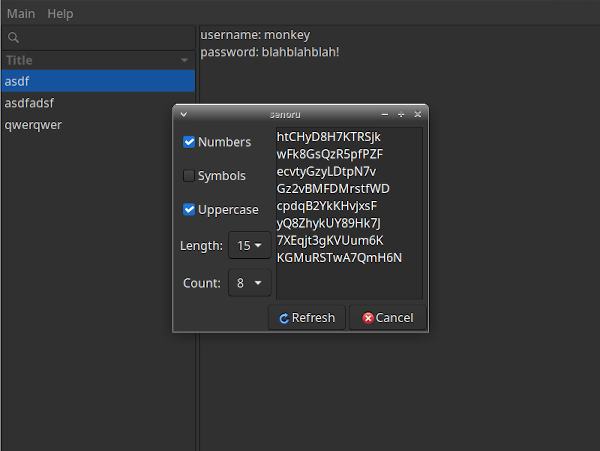
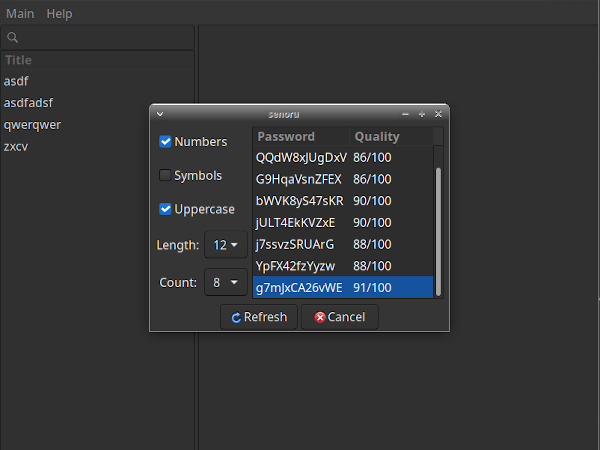
adding score to generate-password

diff --git a/src/gui.rs b/src/gui.rs
@@ -4,6 +4,8 @@ use gtk::prelude::*;
 use gtk::TreeViewExt;
 use magic_crypt::MagicCrypt256;
 use magic_crypt::MagicCryptTrait;
+use passwords::analyzer;
+use passwords::scorer;
 use std::error::Error;
 use std::fs;
 use std::io;
@@ -12,12 +14,11 @@ use std::io::prelude::*;
 pub fn launch(application: &gtk::Application, builder: &gtk::Builder, mc: &MagicCrypt256) -> Result<(), Box<dyn Error>> {
     let main_window: gtk::Window = builder.get_object("main_window").unwrap();
     let main_window_item_title_tree_view: gtk::TreeView = builder.get_object("main_window_item_title_tree_view").unwrap();
-    let generate_password_dialog_password_tree_view: gtk::TreeView = builder.get_object("generate_password_dialog_password_tree_view").unwrap();
 
-    let store = create_store()?;
+    let item_store = create_item_store()?;
 
-    connect_items(&builder, &mc, &store, &main_window_item_title_tree_view)?;
-    connect_menu_items(&main_window, &builder, &mc, &store, &main_window_item_title_tree_view)?;
+    connect_items(&builder, &mc, &item_store, &main_window_item_title_tree_view)?;
+    connect_menu_items(&main_window, &builder, &mc, &item_store, &main_window_item_title_tree_view)?;
     connect_about_dialog(&main_window, &builder)?;
     connect_generate_password_dialog(&main_window, &builder)?;
 
@@ -30,6 +31,17 @@ pub fn launch(application: &gtk::Application, builder: &gtk::Builder, mc: &Magic
 
     main_window.show_all();
     Ok(())
+}
+
+fn create_item_store() -> Result<gtk::ListStore, Box<dyn Error>> {
+    let store = gtk::ListStore::new(&[glib::Type::String]);
+    let items = item_actions::find_all(None).expect("failed to get Items");
+    for item in items.iter() {
+        debug!("item: {:?}", item);
+        let value = glib::value::Value::from(&item.title);
+        store.set_value(&store.append(), 0u32, &value);
+    }
+    Ok(store)
 }
 
 fn connect_items(builder: &gtk::Builder, mc: &MagicCrypt256, store: &gtk::ListStore, item_title_tree_view: &gtk::TreeView) -> Result<(), Box<dyn Error>> {
@@ -92,20 +104,50 @@ fn connect_about_dialog(main_window: &gtk::Window, builder: &gtk::Builder) -> Re
 }
 
 fn connect_generate_password_dialog(main_window: &gtk::Window, builder: &gtk::Builder) -> Result<(), Box<dyn Error>> {
-    let generate_password_dialog: gtk::Dialog = builder.get_object("generate_password_dialog").unwrap();
-    let generate_password_menu_item: gtk::MenuItem = builder.get_object("generate_password_menu_item").unwrap();
-    generate_password_menu_item.connect_activate(glib::clone!(@strong generate_password_dialog => move |_| {
-        generate_password_dialog.show_all();
+    let dialog: gtk::Dialog = builder.get_object("generate_password_dialog").unwrap();
+    let tree_view: gtk::TreeView = builder.get_object("generate_password_dialog_password_tree_view").unwrap();
+    let include_numbers_checkbox: gtk::CheckButton = builder.get_object("generate_password_dialog_include_numbers_checkbox").unwrap();
+    let include_uppercase_checkbox: gtk::CheckButton = builder.get_object("generate_password_dialog_include_uppercase_checkbox").unwrap();
+    let include_symbols_checkbox: gtk::CheckButton = builder.get_object("generate_password_dialog_include_symbols_checkbox").unwrap();
+    let length_combobox: gtk::ComboBox = builder.get_object("generate_password_dialog_length_combobox").unwrap();
+    let count_combobox: gtk::ComboBox = builder.get_object("generate_password_dialog_count_combobox").unwrap();
+
+    let store = gtk::ListStore::new(&[glib::Type::String, glib::Type::String]);
+
+    tree_view.set_model(Some(&store));
+
+    let password_renderer = gtk::CellRendererTextBuilder::new().editable(true).build();
+    let password_column = gtk::TreeViewColumnBuilder::new().title("Password").sort_column_id(0i32).clickable(true).build();
+    password_column.pack_start(&password_renderer, true);
+    password_column.add_attribute(&password_renderer, "text", 0i32);
+    tree_view.append_column(&password_column);
+
+    let password_quality_renderer = gtk::CellRendererTextBuilder::new().build();
+    let password_quality_column = gtk::TreeViewColumnBuilder::new()
+        .title("Quality")
+        .sort_column_id(1i32)
+        .fixed_width(20)
+        .expand(false)
+        .resizable(false)
+        .sizing(gtk::TreeViewColumnSizing::Fixed)
+        .build();
+    password_quality_column.pack_start(&password_quality_renderer, true);
+    password_quality_column.add_attribute(&password_quality_renderer, "text", 1i32);
+    tree_view.append_column(&password_quality_column);
+
+    let menu_item: gtk::MenuItem = builder.get_object("generate_password_menu_item").unwrap();
+    menu_item.connect_activate(glib::clone!(@strong dialog => move |_| {
+        dialog.show_all();
     }));
 
-    let generate_password_dialog_refresh_button: gtk::Button = builder.get_object("generate_password_dialog_refresh_button").unwrap();
-    generate_password_dialog_refresh_button.connect_clicked(glib::clone!(@strong builder => move |_| {
-        generate_password_dialog_refresh_action(&builder);
+    let refresh_button: gtk::Button = builder.get_object("generate_password_dialog_refresh_button").unwrap();
+    refresh_button.connect_clicked(glib::clone!(@weak include_numbers_checkbox, @weak include_uppercase_checkbox, @weak include_symbols_checkbox, @weak length_combobox, @weak count_combobox, @weak store, @weak tree_view => move |_| {
+        generate_password_dialog_refresh_action(&include_numbers_checkbox, &include_uppercase_checkbox, &include_symbols_checkbox, &length_combobox, &count_combobox, &store, &tree_view);
     }));
 
-    let generate_password_dialog_cancel_button: gtk::Button = builder.get_object("generate_password_dialog_cancel_button").unwrap();
-    generate_password_dialog_cancel_button.connect_clicked(glib::clone!(@weak generate_password_dialog => move |_| {
-        generate_password_dialog.hide();
+    let cancel_button: gtk::Button = builder.get_object("generate_password_dialog_cancel_button").unwrap();
+    cancel_button.connect_clicked(glib::clone!(@weak dialog => move |_| {
+        dialog.hide();
     }));
 
     Ok(())
@@ -143,40 +185,32 @@ fn connect_menu_items(
     Ok(())
 }
 
-fn create_store() -> Result<gtk::ListStore, Box<dyn Error>> {
-    let store = gtk::ListStore::new(&[glib::Type::String]);
-    let items = item_actions::find_all(None).expect("failed to get Items");
-    for item in items.iter() {
-        debug!("item: {:?}", item);
-        let value = glib::value::Value::from(&item.title);
-        store.set_value(&store.append(), 0u32, &value);
-    }
-    Ok(store)
-}
-
-fn generate_password_dialog_refresh_action(builder: &gtk::Builder) {
-    let generate_password_dialog_include_numbers_checkbox: gtk::CheckButton = builder.get_object("generate_password_dialog_include_numbers_checkbox").unwrap();
-    let generate_password_dialog_include_uppercase_checkbox: gtk::CheckButton =
-        builder.get_object("generate_password_dialog_include_uppercase_checkbox").unwrap();
-    let generate_password_dialog_include_symbols_checkbox: gtk::CheckButton = builder.get_object("generate_password_dialog_include_symbols_checkbox").unwrap();
-    let generate_password_dialog_length_combobox: gtk::ComboBox = builder.get_object("generate_password_dialog_length_combobox").unwrap();
-    let generate_password_dialog_count_combobox: gtk::ComboBox = builder.get_object("generate_password_dialog_count_combobox").unwrap();
-
+fn generate_password_dialog_refresh_action(
+    include_numbers_checkbox: &gtk::CheckButton,
+    include_uppercase_checkbox: &gtk::CheckButton,
+    include_symbols_checkbox: &gtk::CheckButton,
+    length_combobox: &gtk::ComboBox,
+    count_combobox: &gtk::ComboBox,
+    store: &gtk::ListStore,
+    tree_view: &gtk::TreeView,
+) {
     let generator = passwords::PasswordGenerator::new()
         .spaces(false)
         .exclude_similar_characters(true)
         .strict(true)
         .lowercase_letters(true)
-        .numbers(generate_password_dialog_include_numbers_checkbox.get_active())
-        .symbols(generate_password_dialog_include_symbols_checkbox.get_active())
-        .uppercase_letters(generate_password_dialog_include_uppercase_checkbox.get_active())
-        .length(generate_password_dialog_length_combobox.get_active_id().unwrap().parse::<usize>().unwrap());
-    debug!("generator: {:?}", generator);
+        .numbers(include_numbers_checkbox.get_active())
+        .symbols(include_symbols_checkbox.get_active())
+        .uppercase_letters(include_uppercase_checkbox.get_active())
+        .length(length_combobox.get_active_id().unwrap().parse::<usize>().unwrap());
     let passwords = generator
-        .generate(generate_password_dialog_count_combobox.get_active_id().unwrap().parse::<usize>().unwrap())
+        .generate(count_combobox.get_active_id().unwrap().parse::<usize>().unwrap())
         .expect("Couldn't generate passwords");
-    // let generate_password_dialog_textview_buffer = generate_password_dialog_textview.get_buffer().expect("Couldn't get buffer");
-    // generate_password_dialog_textview_buffer.set_text(&passwords.join("\n"));
+    store.clear();
+    for password in passwords {
+        let score = scorer::score(&analyzer::analyze(&password));
+        store.insert_with_values(None, &[0, 1], &[&password, &format!("{}/100", score as i32).as_str()]);
+    }
 }
 
 fn new_menu_item_action(mc: &magic_crypt::MagicCrypt256, store: &gtk::ListStore, tree_view: &gtk::TreeView) {

diff --git a/src/main.rs b/src/main.rs
@@ -84,7 +84,7 @@ fn start_ui(app: &gtk::Application) {
         glib::clone!(@weak passphrase_dialog_quality_score_label => @default-return Inhibit(false), move | entry, key | {
             let passphrase = entry.get_buffer().get_text();
             let score = scorer::score(&analyzer::analyze(&passphrase));
-            passphrase_dialog_quality_score_label.set_label(format!("{}/100", score as f32).as_str());
+            passphrase_dialog_quality_score_label.set_label(format!("{}/100", score as i32).as_str());
             Inhibit(false)
         }),
     );
